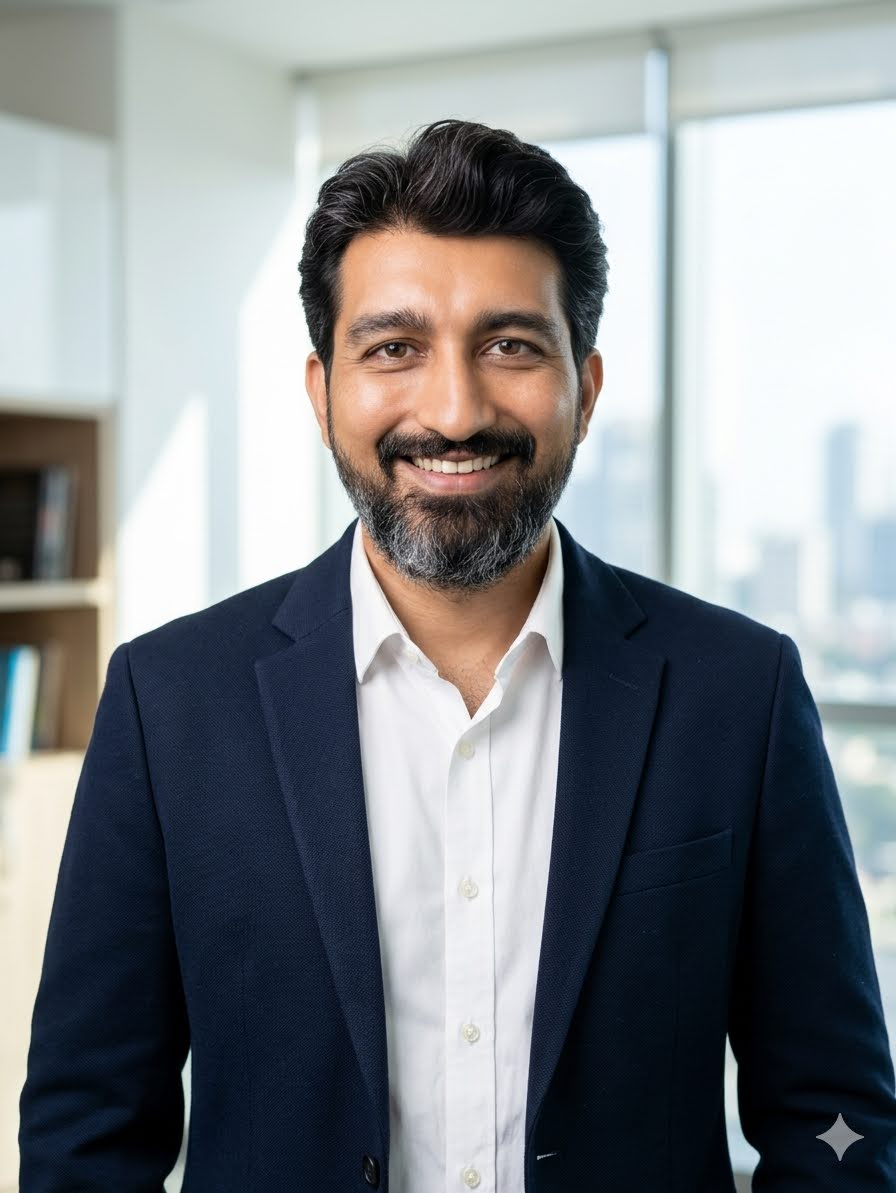
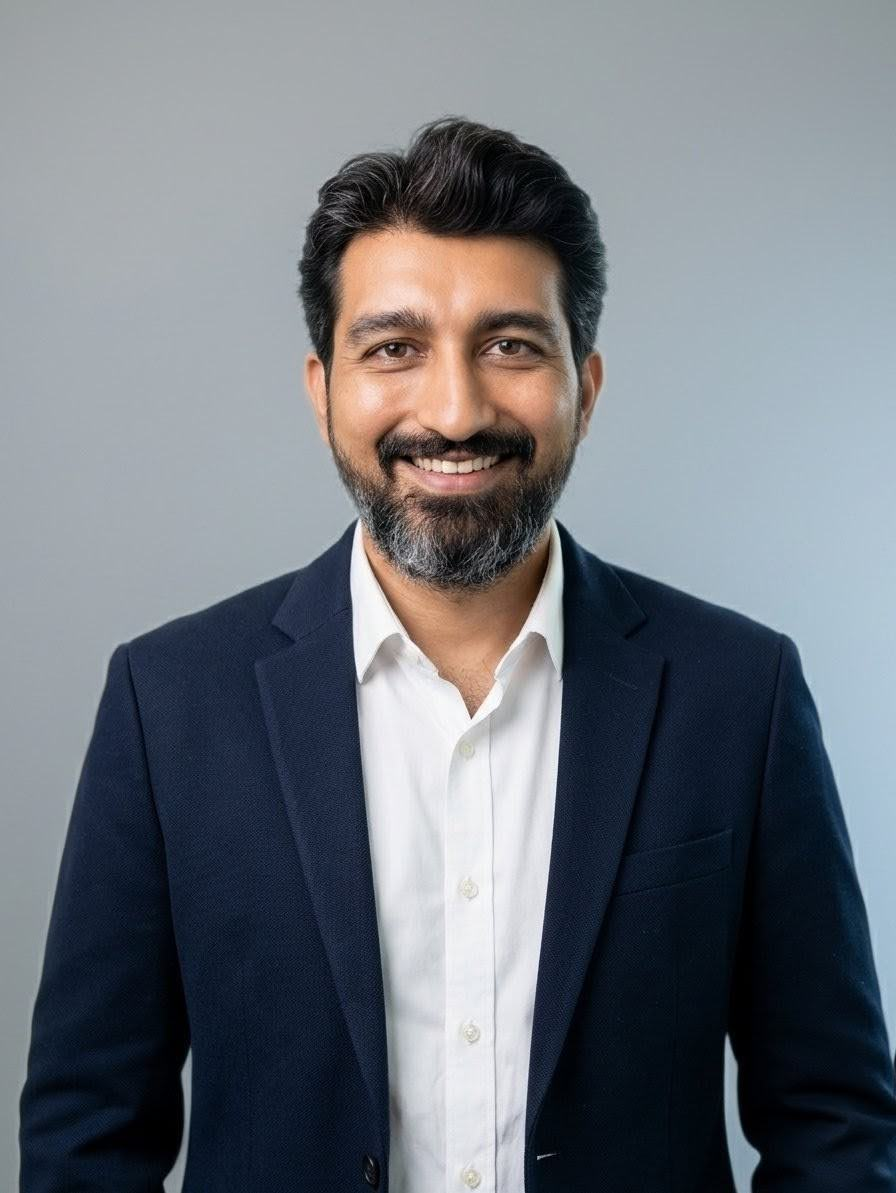
Use no-background profile photo

diff --git a/_layouts/about.html b/_layouts/about.html
@@ -5,7 +5,7 @@ layout: default
 <div class="home">
   <div class="row" style="display: flex; margin-bottom: 30px">
     <div class="column" style="flex: 50%; margin-right: 15px">
-      <img src="/assets/me.jpg?v=2" alt="Kartikey Tanna's Photo" style="border-radius: 10%">
+      <img src="/assets/me.jpg?v=3" alt="Kartikey Tanna's Photo" style="border-radius: 10%">
     </div>
     <div class="column" style="flex: 50%; margin-left: 15px">
       {{ content  }}
